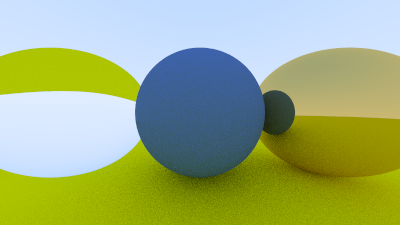
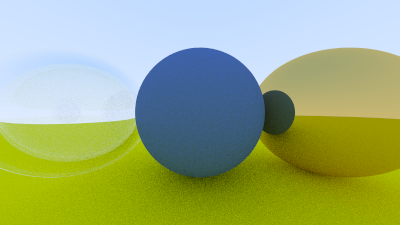
Schlick approx

Changed region(s): [[0.0, 0.5289, 0.36, 0.8089], [0.0, 0.1867, 0.36, 0.4667]]

diff --git a/src/material.rs b/src/material.rs
@@ -1,6 +1,5 @@
-use std::cmp::min;
-
 use crate::color::Color;
+use crate::utilities::rand;
 use crate::vec3::Vec3;
 use crate::{hittable::HitResult, ray::Ray};
 
@@ -92,6 +91,13 @@ impl Dielectric {
     pub fn new(refraction_index: f64) -> Self {
         Dielectric { refraction_index }
     }
+
+    fn reflectance(&self, cos: f64) -> f64 {
+        // Schlick's approximation for reflectance
+        let mut r0 = (1.0 - self.refraction_index) / (1.0 + self.refraction_index);
+        r0 = r0 * r0;
+        r0 + (1.0 - r0) * f64::powi(1.0-cos, 5)
+    }
 }
 
 impl Material for Dielectric {
@@ -105,17 +111,18 @@ impl Material for Dielectric {
         let unit_dir = ray.direction().normalized();
         let cos_theta = f64::min(Vec3::dot(&-unit_dir, hit_result.normal()), 1.0);
         let sin_theta = (1.0 - cos_theta * cos_theta).sqrt();
+        let cannot_refract = refraction_ratio * sin_theta > 1.0;
+        let reflectance_condition = self.reflectance(cos_theta) > rand();
 
-        let direction = if refraction_ratio * sin_theta > 1.0 {
+        let direction = if cannot_refract || reflectance_condition {
             Vec3::reflect(&unit_dir, hit_result.normal())
-        }
-        else {
+        } else {
             Vec3::refract(&unit_dir, hit_result.normal(), refraction_ratio)
         };
 
         Some(ScatterResult {
             attenuation: Color::white(),
-            scattered_ray: Ray::new(*hit_result.location(), direction)
+            scattered_ray: Ray::new(*hit_result.location(), direction),
         })
     }
 }

diff --git a/src/main.rs b/src/main.rs
@@ -16,22 +16,27 @@ fn main() {
     world.add(Rc::new(Sphere::new(
         Point::new(0.0, -100.5, -1.0),
         100.0,
-        ground_mat,
+        ground_mat.clone(),
     )));
     world.add(Rc::new(Sphere::new(
         Point::new(0.0, 0.0, -1.0),
         0.5,
-        center_mat,
+        center_mat.clone(),
     )));
     world.add(Rc::new(Sphere::new(
         Point::new(-1.0, 0.0, -1.0),
         0.5,
-        right_mat,
+        right_mat.clone(),
+    )));
+    world.add(Rc::new(Sphere::new(
+        Point::new(-1.0, 0.0, -1.0),
+        -0.4,
+        right_mat.clone(),
     )));
     world.add(Rc::new(Sphere::new(
         Point::new(1.0, 0.0, -1.0),
         0.5,
-        left_mat,
+        left_mat.clone(),
     )));
 
     raytracer.render_image(&world);
